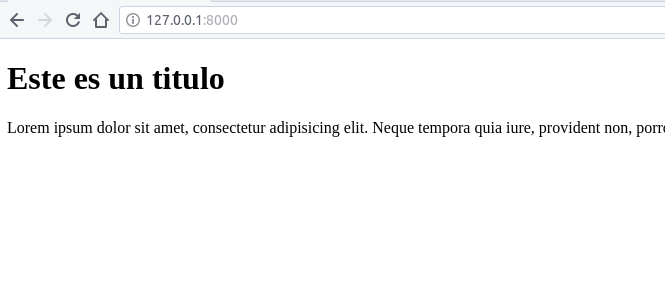
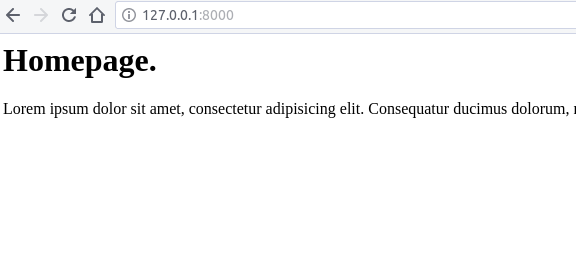
Actualizar README

diff --git a/README.md b/README.md
@@ -9,6 +9,9 @@
     * [Uso de Pipenv](#uso-de-pipenv)
 * [Creación de un proyecto con Django](#creación-de-un-proyecto-con-django)
 * [Hello World!](#hello-world)
+* [App con templates](#app-con-templates)
+    * [Templates](#templates)
+    * [Extendiendo el Template](#extendiendo-el-template)
 
 ## Introducción
 Esta es una pequeña guia para la creación de proyectos con la ultima version de Django 2.0.X y las herramientas recomendadas para su gestion. Esta guia toma como referencia la excelente documentación creada por el profesor **[Will Vincent](https://wsvincent.com/)** en su pagina [https://djangoforbeginners.com/](https://djangoforbeginners.com/)
@@ -125,7 +128,7 @@ $ pipenv shell
 
 Crear el proyecto con **Django**
 ~~~sh
-(django-JmZ1NTQw) $ django-admin.py startproject nuevo
+(django-JmZ1NTQw) $ django-admin.py startproject nuevo .
 ~~~
 
 Ejecutar el servidor de **Django** para comprobar que todo se instalo y funciona correctamente
@@ -176,7 +179,7 @@ $ pipenv shell
 (helloworld-415ivvZC) $
 
 # Iniciar el proyecto
-(helloworld-415ivvZC) $ django-admin startproject helloworld_project
+(helloworld-415ivvZC) $ django-admin startproject helloworld_project .
 
 # Ejecutar el servidor para comprobar que Django se ejecuta correctamente
 (helloworld-415ivvZC) $ ./manage.py runserver
@@ -221,7 +224,7 @@ urlpatterns = [
 ]
 ~~~
 
-Se edita el archivo url principal **helloworld_project/urls.py**
+Se edita el archivo urls principal **helloworld_project/urls.py**
 ~~~python
 from django.contrib import admin
 from django.urls import path, include # Se añade el include
@@ -240,3 +243,222 @@ Se ejecuta nuevamente el servidor para probar la aplicación
 Al ingresar la dirección **http://127.0.0.1:8000/** se deberia visualizar algo como lo siguiente:
 
 ![Hola](imagenes/hola.png)
+
+## App con templates
+~~~sh
+$ mkdir simple
+
+$ cd simple
+
+$ pipenv --three install django
+
+$ pipenv shell
+
+(simple-BrSeYfS6) $
+
+(simple-BrSeYfS6) $ django-admin startproject simple_project .
+
+(simple-BrSeYfS6) $ ./manage.py startapp pages
+~~~
+
+**settings.py**
+~~~python
+INSTALLED_APPS = [
+    'django.contrib.admin',
+    'django.contrib.auth',
+    'django.contrib.contenttypes',
+    'django.contrib.sessions',
+    'django.contrib.messages',
+    'django.contrib.staticfiles',
+    'pages.apps.PagesConfig',
+]
+~~~
+
+Comprobamos que todo funciona
+~~~sh
+(simple-BrSeYfS6) $ ./manage.py runserver
+~~~
+
+### Templates
+
+~~~sh
+(simple-BrSeYfS6) $ mkdir templates
+(simple-BrSeYfS6) $ touch templates/home.html
+~~~
+
+Esto deja una estrucutura del proyecto como la siguiente:
+~~~sh
+.
+├── db.sqlite3
+├── manage.py
+├── pages
+│   ├── admin.py
+│   ├── apps.py
+│   ├── __init__.py
+│   ├── migrations
+│   ├── models.py
+│   ├── tests.py
+│   └── views.py
+├── Pipfile
+├── Pipfile.lock
+├── simple_project
+│   ├── __init__.py
+│   ├── __pycache__
+│   ├── settings.py
+│   ├── urls.py
+│   └── wsgi.py
+└── templates       <-- Directorio templates
+    └── home.html
+~~~
+
+Añadir el **template** en **settings.py**
+~~~python
+TEMPLATES = [
+    {
+        'BACKEND': 'django.template.backends.django.DjangoTemplates',
+        'DIRS': [os.path.join(BASE_DIR, 'templates')],  <- Añadiendo la carpeta templates al proyecto
+        'APP_DIRS': True,
+        'OPTIONS': {
+            'context_processors': [
+                'django.template.context_processors.debug',
+                'django.template.context_processors.request',
+                'django.contrib.auth.context_processors.auth',
+                'django.contrib.messages.context_processors.messages',
+            ],
+        },
+    },
+]
+~~~
+
+Se añade algo de texto al **template** creado **templates/home.html**
+~~~html
+<h1>Homepage.</h1>
+<p>Lorem ipsum dolor sit amet, consectetur adipisicing elit. Consequatur ducimus dolorum, recusandae enim, quidem facere?</p>
+~~~
+
+En versiones anteriores de **Django** se usaban las **vistas** creadas mediante **funciones** , para cumplir la filosofia DRY (Don't Repeat Yourself) se introdujo las **Class-Based Views**, vistas creadas con **clases**
+
+Se crea la **vista** en **pages/views.py**
+~~~python
+from django.views.generic import TemplateView
+
+class HomePageView(TemplateView):
+    template_name = 'home.html'
+~~~
+
+Se crea la **url** para la vista creando el archivo **pages/urls.py**
+
+~~~sh
+(simple-BrSeYfS6) $ touch pages/urls.py
+~~~
+
+**pages/urls.py**
+~~~python
+from django.urls import path
+
+from . import views
+
+urlpatterns = [
+    path('', views.HomePageView.as_view(), name='home'),
+]
+~~~
+
+Se añade la **url** del archvio **pages/urls.py** en **simple_project/urls.py**
+~~~python
+from django.contrib import admin
+from django.urls import path, include # Se añade el include
+
+urlpatterns = [
+    path('admin/', admin.site.urls),
+    path('', include('pages.urls')), # URL de pages/url.py
+]
+~~~
+
+Se prueba que la vista este funcionando correctamente
+~~~sh
+(simple-BrSeYfS6) $ ./manage.py runserver
+~~~
+
+Al ingresar la dirección **http://127.0.0.1:8000/** se deberia visualizar algo como lo siguiente:
+
+![Template](imagenes/template.png)
+
+Se añade una pagina About siguiendo los pasos anteriores
+~~~sh
+(simple-BrSeYfS6) $ touch templates/about.html
+~~~
+
+Se añade texto al **about.html**
+~~~html
+<h1>About page.</h1>
+<p>Lorem ipsum dolor sit amet, consectetur adipisicing elit. Consequatur ducimus dolorum, recusandae enim, quidem facere?</p>
+~~~
+
+Se añade la vista en **pages/views.py**
+~~~python
+from django.views.generic import TemplateView
+
+# Vista de Home
+class HomePageView(TemplateView):
+    template_name = 'home.html'
+
+# Vista de About
+class AboutPageView(TemplateView):
+    template_name = 'about.html'
+~~~
+
+Se añade la **URL** del about en **pages/urls.py**
+~~~python
+from django.urls import path
+
+from . import views
+
+urlpatterns = [
+    path('', views.HomePageView.as_view(), name='home'),
+    path('about/', views.AboutPageView.as_view(), name='about'), # Se añade la URL del about
+]
+~~~
+
+### Extendiendo el Template
+Se crea un archivo **base.html**
+~~~sh
+(simple-BrSeYfS6) $ touch templates/base.html
+~~~
+
+Se le añade contenido a **templates/base.html**
+~~~html
+<!-- pages/base.html -->
+<header>
+  <a href="{% url 'home' %}">Home</a> | <a href="{% url 'about' %}">About</a>
+</header>
+
+{% block content %}
+{% endblock content%}
+~~~
+
+Se extiende el contenido de **base.html** en **home.html** y en **about.html**
+**templates/home.html**
+~~~html
+<!-- templates/home.html -->
+{% extends 'base.html' %}
+
+{% block content %}
+<h1>Homepage.</h1>
+<p>Lorem ipsum dolor sit amet, consectetur adipisicing elit. Consequatur ducimus dolorum, recusandae enim, quidem facere?</p>
+{% endblock content %}
+~~~
+
+**templates/about.html**
+~~~html
+<!-- templates/about.html -->
+{% extends 'base.html' %}
+
+{% block content %}
+<h1>About page.</h1>
+<p>Lorem ipsum dolor sit amet, consectetur adipisicing elit. Consequatur ducimus dolorum, recusandae enim, quidem facere?</p>
+{% endblock content %}
+~~~
+
+Generando un resultado parecido a esto:
+
+![Extend](imagenes/extend.png)
